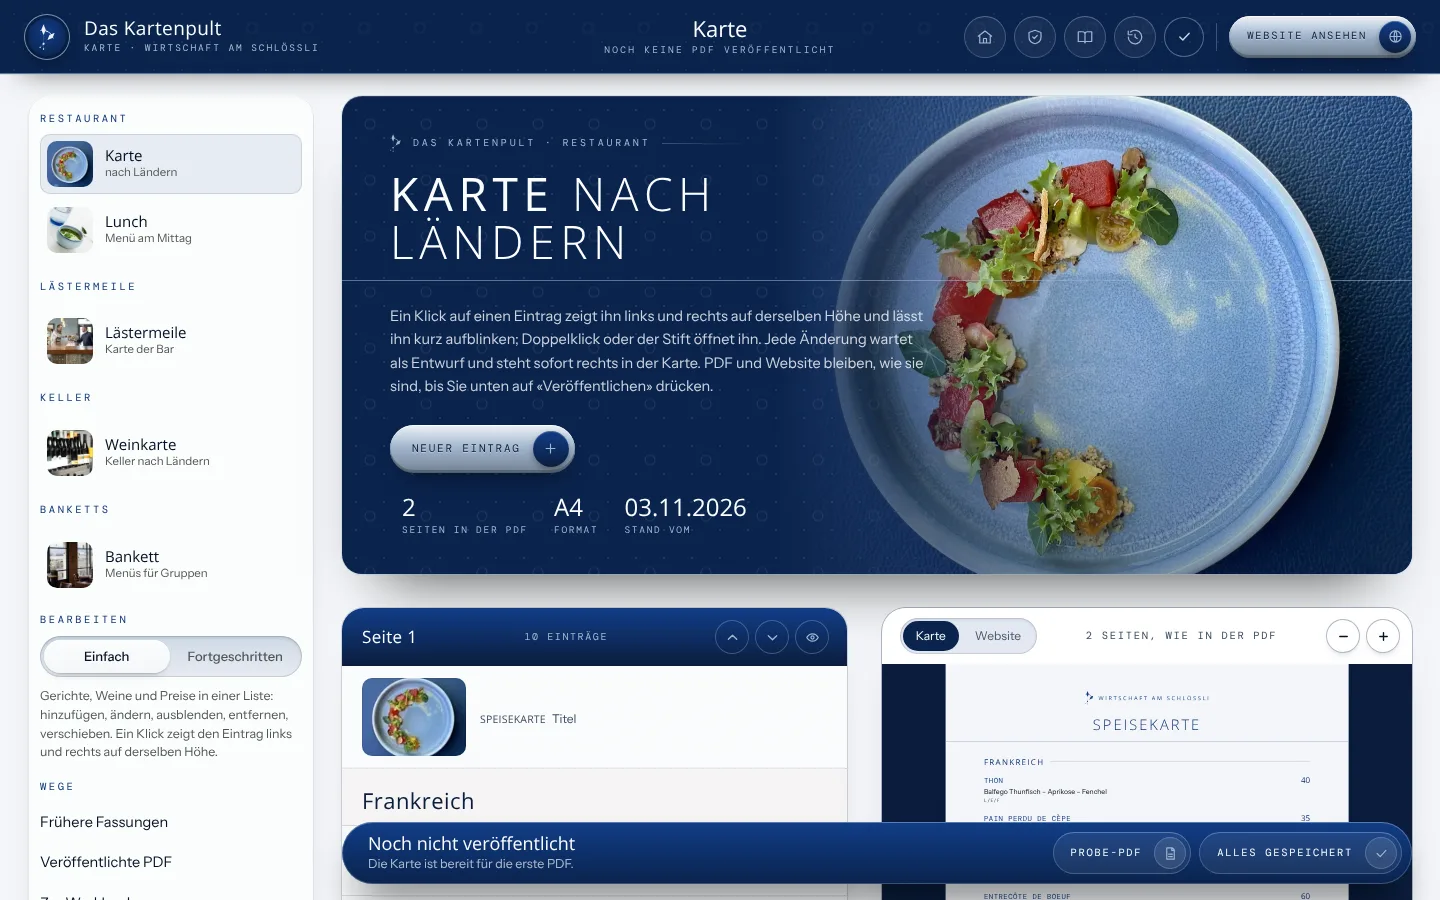
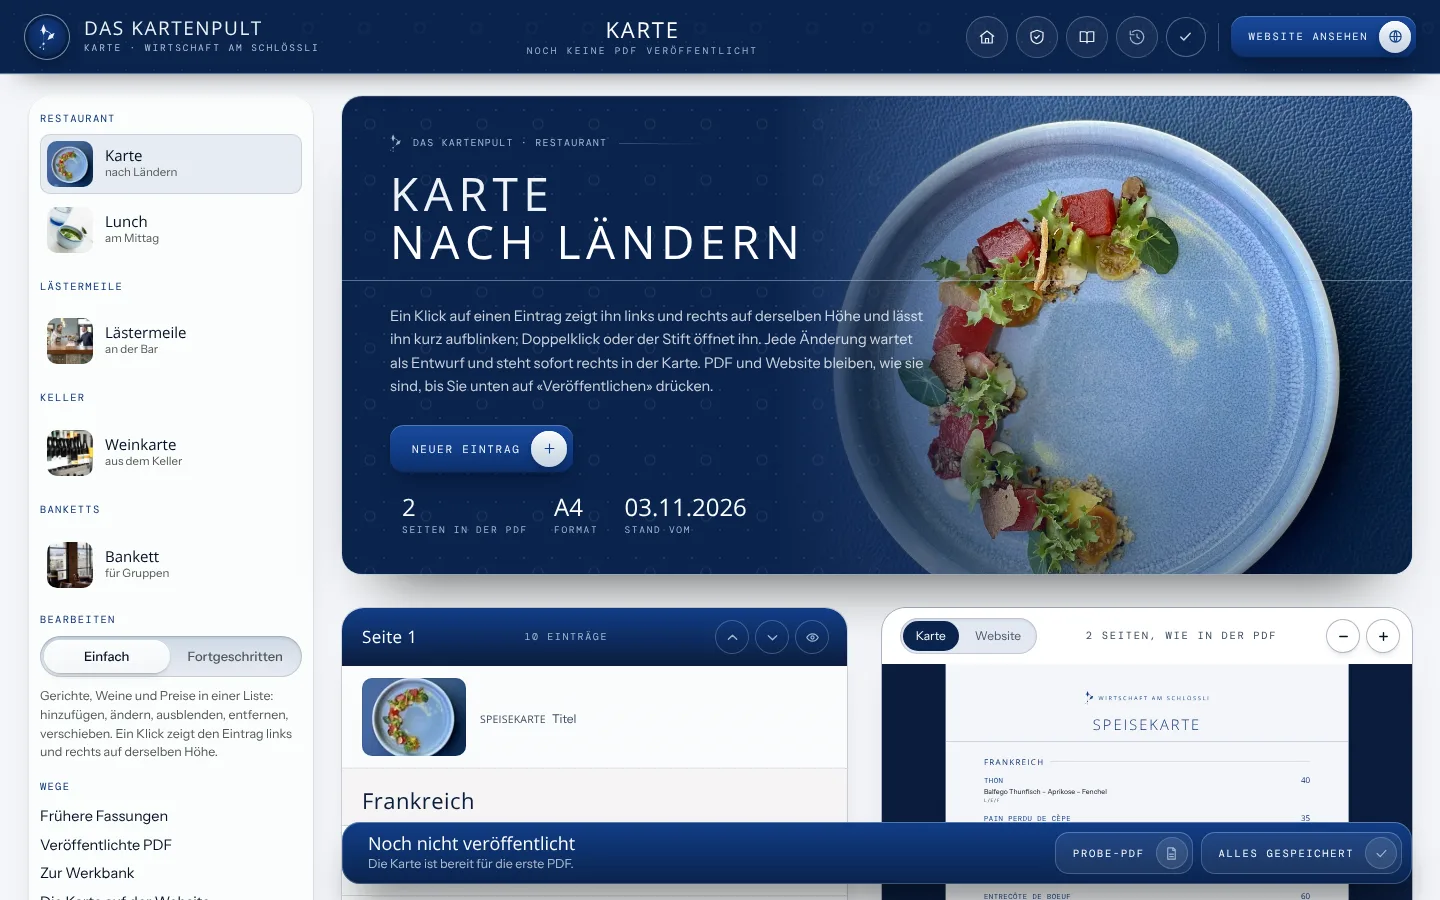
Kartenpult: Titel der Bühne zweizeilig mit Satz darunter, Anleitung mit neuen Aufnahmen, Schrift der Titel
Claude-Session: https://claude.ai/code/session_0189oeKjbbQQZEEX38ZwsKfe

diff --git a/Wirtschaft am Schlössli Bottighofen/_werkzeuge/carte/carte.js b/Wirtschaft am Schlössli Bottighofen/_werkzeuge/carte/carte.js
@@ -223,7 +223,8 @@ function kopf() {
   const kn = MODUS === 'einfach' ? WO.knopf('Neuer Eintrag', 'plus', 'gold', { attr: 'data-akt="neu"' }) : WO.knopf('Daten der Karte', 'pfeil', 'hell', { attr: 'data-akt="daten"' });
   $('#kopf').innerHTML = WO.startbild({ werkzeug: 'karten', art: 'buehne', foto: fotoGross(Z),
     zier: `${h(NAME)} · ${h(k.gruppe || '')}`,   // Tor 5 30.10.2026 (K7/K12): ohne «· Einfach» (stand am Handy allein, «·» am Zeilenende); der Weg steht im Rand
-    h1: `${h(k.name || '')} <em>${h(k.unter || 'Karte des Hauses').replace(/ (\S+)$/, '&nbsp;$1')}</em>`,   // K7: das letzte Wort steht nie allein in der zweiten Zeile satz: h(SATZ_KOPF[MODUS === 'frei' ? 'frei' : 'einfach']),
+    /* Titel in zwei Zeilen: der Name der Karte, darunter ihr Zusatz (K7: nie ein Wort allein in der letzten Zeile) */
+    h1: `${h(k.name || '')}<br><span><em>${h(k.unter || 'Karte des Hauses')}</em></span>`, satz: h(SATZ_KOPF[MODUS === 'frei' ? 'frei' : 'einfach']),
     knoepfe: kn + `<dl class="kopf__zahlen">${zahlen.map(([z, t]) => `<div><dt>${h(t)}</dt><dd>${h(String(z))}</dd></div>`).join('')}</dl>` });
   const sb = $('#kopf .wo-sb'); if (sb && neu) sb.classList.add('auftritt');
   const img = $('#kopf .wo-sb__foto img'); if (img) { img.alt = (FOTO[Z] || [])[2] || ''; img.setAttribute('decoding', 'async'); }

diff --git a/Wirtschaft am Schlössli Bottighofen/_werkzeuge/carte/pruefung.html b/Wirtschaft am Schlössli Bottighofen/_werkzeuge/carte/pruefung.html
@@ -28,7 +28,7 @@ body.anl{padding:0}
 .rep .kn[data-scharf]{--o:#b8473d;--m:#B3261E;--u:#6e130d}
 .pr-quit{margin-top:12px;font-size:14px;min-height:1.4em}
 .anl .gesund div b{white-space:normal}
-.anl h1,.anl h2{font-family:var(--wo-titel,'Open Sans',sans-serif);font-weight:400;text-transform:uppercase;letter-spacing:.08em}
+.anl h1,.anl h2{font-family:var(--serif);font-weight:400;text-transform:uppercase;letter-spacing:.08em}
 .anl h1{font-size:clamp(28px,4.4vw,44px);line-height:1.12}
 .anl h2{font-size:21px}
 @media (max-width:560px){.rep div{flex-direction:column;align-items:stretch}.anl .gesund div{flex-direction:column}.anl .gesund div b{max-width:none;text-align:left}}

diff --git a/Wirtschaft am Schlössli Bottighofen/_werkzeuge/carte/anleitung.html b/Wirtschaft am Schlössli Bottighofen/_werkzeuge/carte/anleitung.html
@@ -28,7 +28,7 @@ body.anl{padding:0}
 .kn--klein.zuruck{padding-left:16.75px}
 /* Messlauf 29.10.2026 (Regel einzelwort): kein einzelnes Wort allein in der letzten Titelzeile */
 h1,h2,h3,h4,figcaption{text-wrap:balance}
-.anl h1,.anl h2{font-family:var(--wo-titel,'Open Sans',sans-serif);font-weight:400;text-transform:uppercase;letter-spacing:.08em}
+.anl h1,.anl h2{font-family:var(--serif);font-weight:400;text-transform:uppercase;letter-spacing:.08em}
 .anl h1{font-size:clamp(28px,4.4vw,44px);line-height:1.12}
 .anl h2{font-size:21px}
 .anl figure{margin:22px 0 6px}
